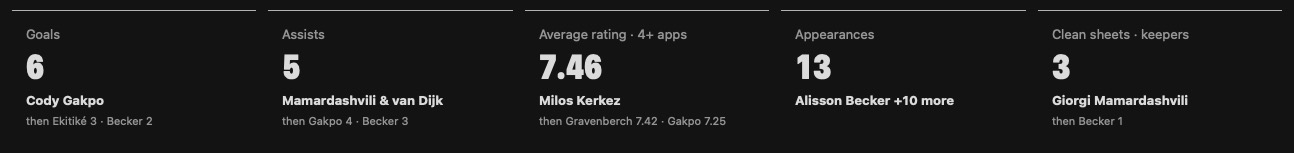
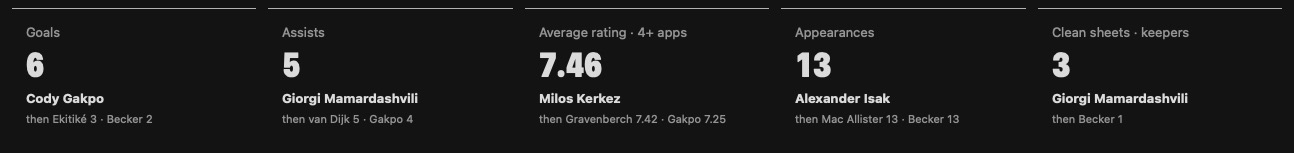
Stats leaders: one named leader then the next two, as in his Figma (no 'A & B' or '+N more')

diff --git a/mac/SquadReport/Views/StatsView.swift b/mac/SquadReport/Views/StatsView.swift
@@ -123,10 +123,11 @@ private struct Leaders: View {
     }
 
     private func card(_ label: String, _ pool: [StatRow], decimals: Bool = false, _ value: (StatRow) -> Double) -> some View {
-        let ranked = pool.sorted { value($0) > value($1) }
+        // His Figma: one leader by name, then the next two with their numbers, even when they're level with the leader
+        // (no "A & B" or "+10 more"). Level players are ordered by games played, then name, so it doesn't jump around.
+        let ranked = pool.sorted { (value($0), $0.apps, $1.name) > (value($1), $1.apps, $0.name) }
         let top = ranked.first.map(value) ?? 0
-        let leaders = ranked.filter { value($0) == top }
-        let next = ranked.filter { value($0) != top }.prefix(2)
+        let next = ranked.dropFirst().filter { value($0) > 0 }.prefix(2)
         let fmt: (Double) -> String = { decimals ? String(format: "%.2f", $0) : String(Int($0)) }
         // Every size and gap here is measured off his Figma (pt from the top rule: label cap 17, value cap 41, name cap
         // 80, sub 99), so a few (14, 6, 4) sit off the DESIGN.md scale on purpose.
@@ -134,9 +135,7 @@ private struct Leaders: View {
             Text(label).font(.system(size: 13)).foregroundStyle(.secondary).lineLimit(1)
             NumberText(top > 0 ? fmt(top) : "–", size: 34)
                 .padding(.top, DS.Space.xxs)
-            Text(top > 0 ? (leaders.count == 2 ? "\(surname(leaders[0].name)) & \(surname(leaders[1].name))"
-                            : leaders.count > 2 ? "\(leaders[0].name) +\(leaders.count - 1) more" : leaders.first?.name ?? "")
-                         : "Nobody yet")
+            Text(top > 0 ? ranked[0].name : "Nobody yet")
                 .font(.system(size: 13, weight: .bold)).lineLimit(1)
                 .padding(.top, 6)
             Text(next.isEmpty || top == 0 ? " " : "then " + next.map { "\(surname($0.name)) \(fmt(value($0)))" }.joined(separator: " · "))
